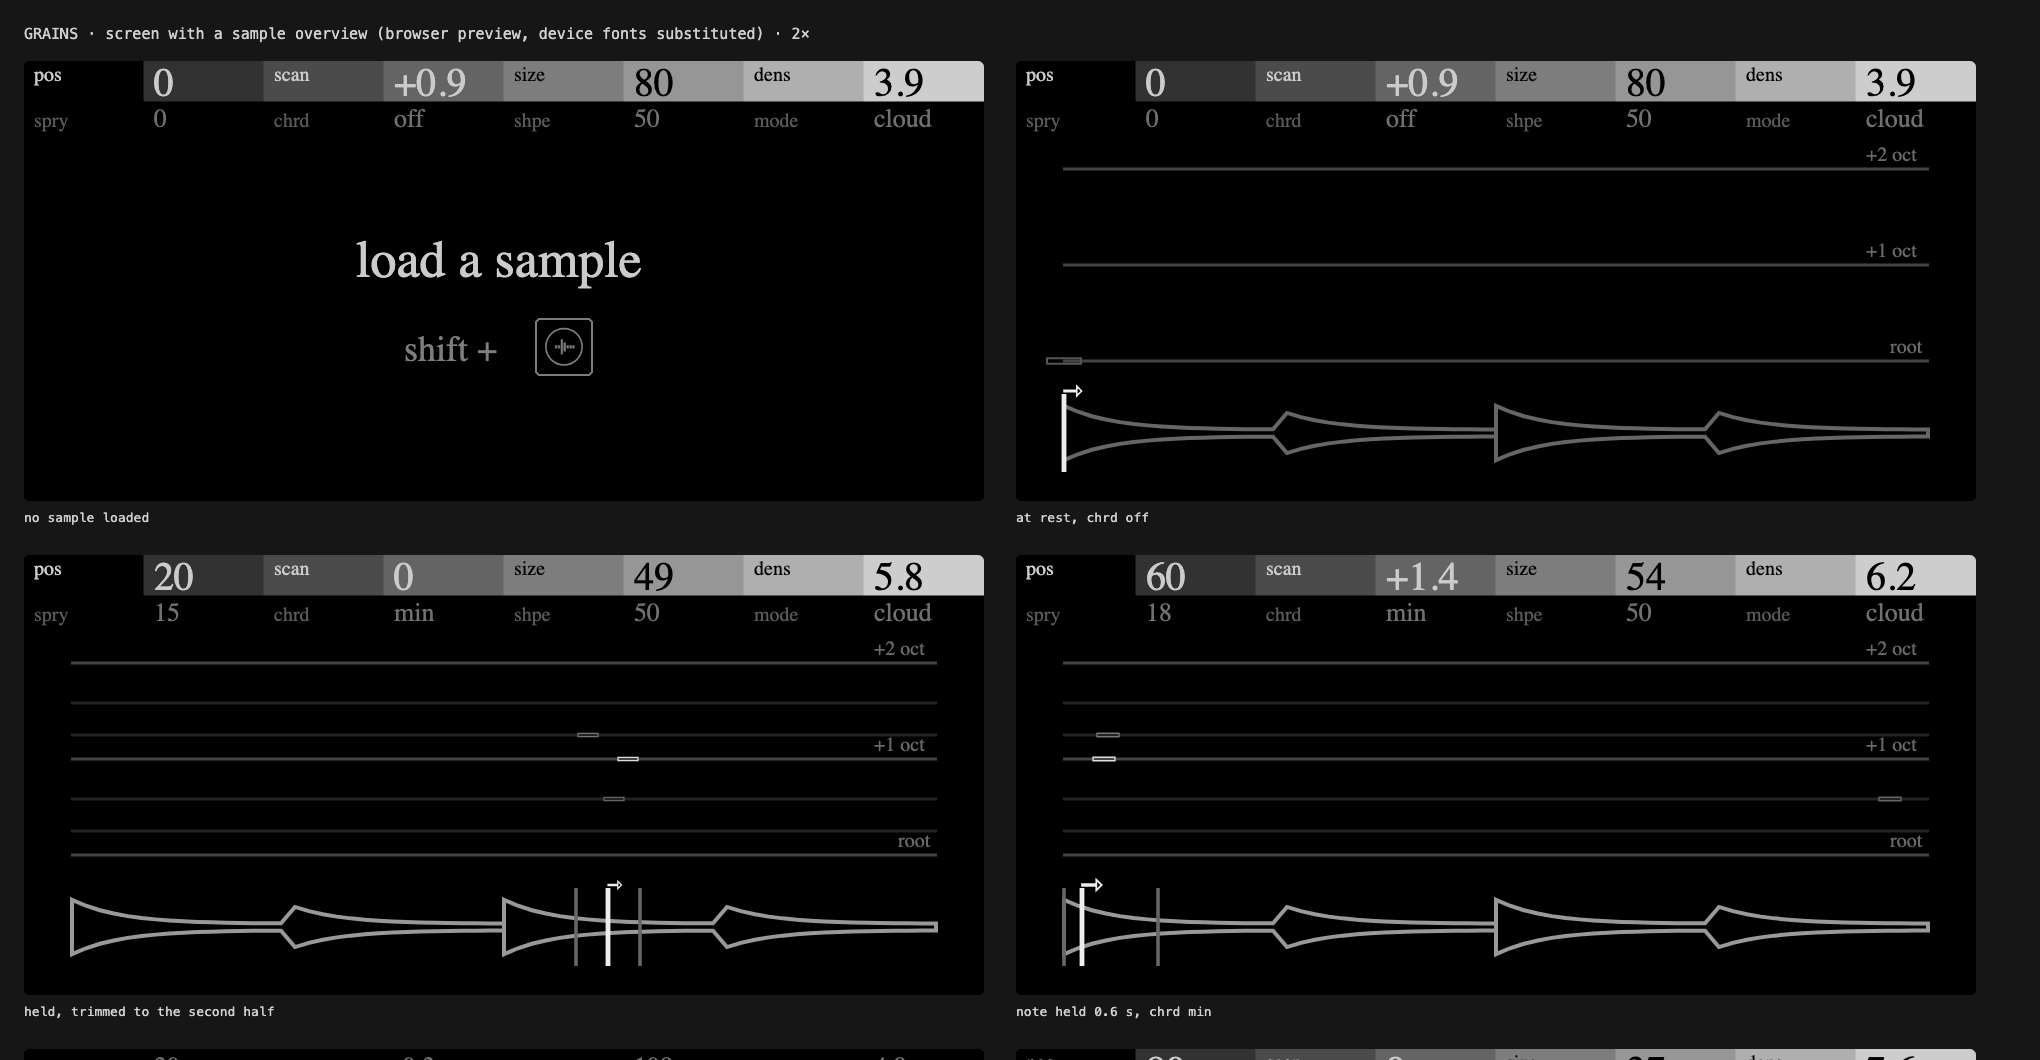
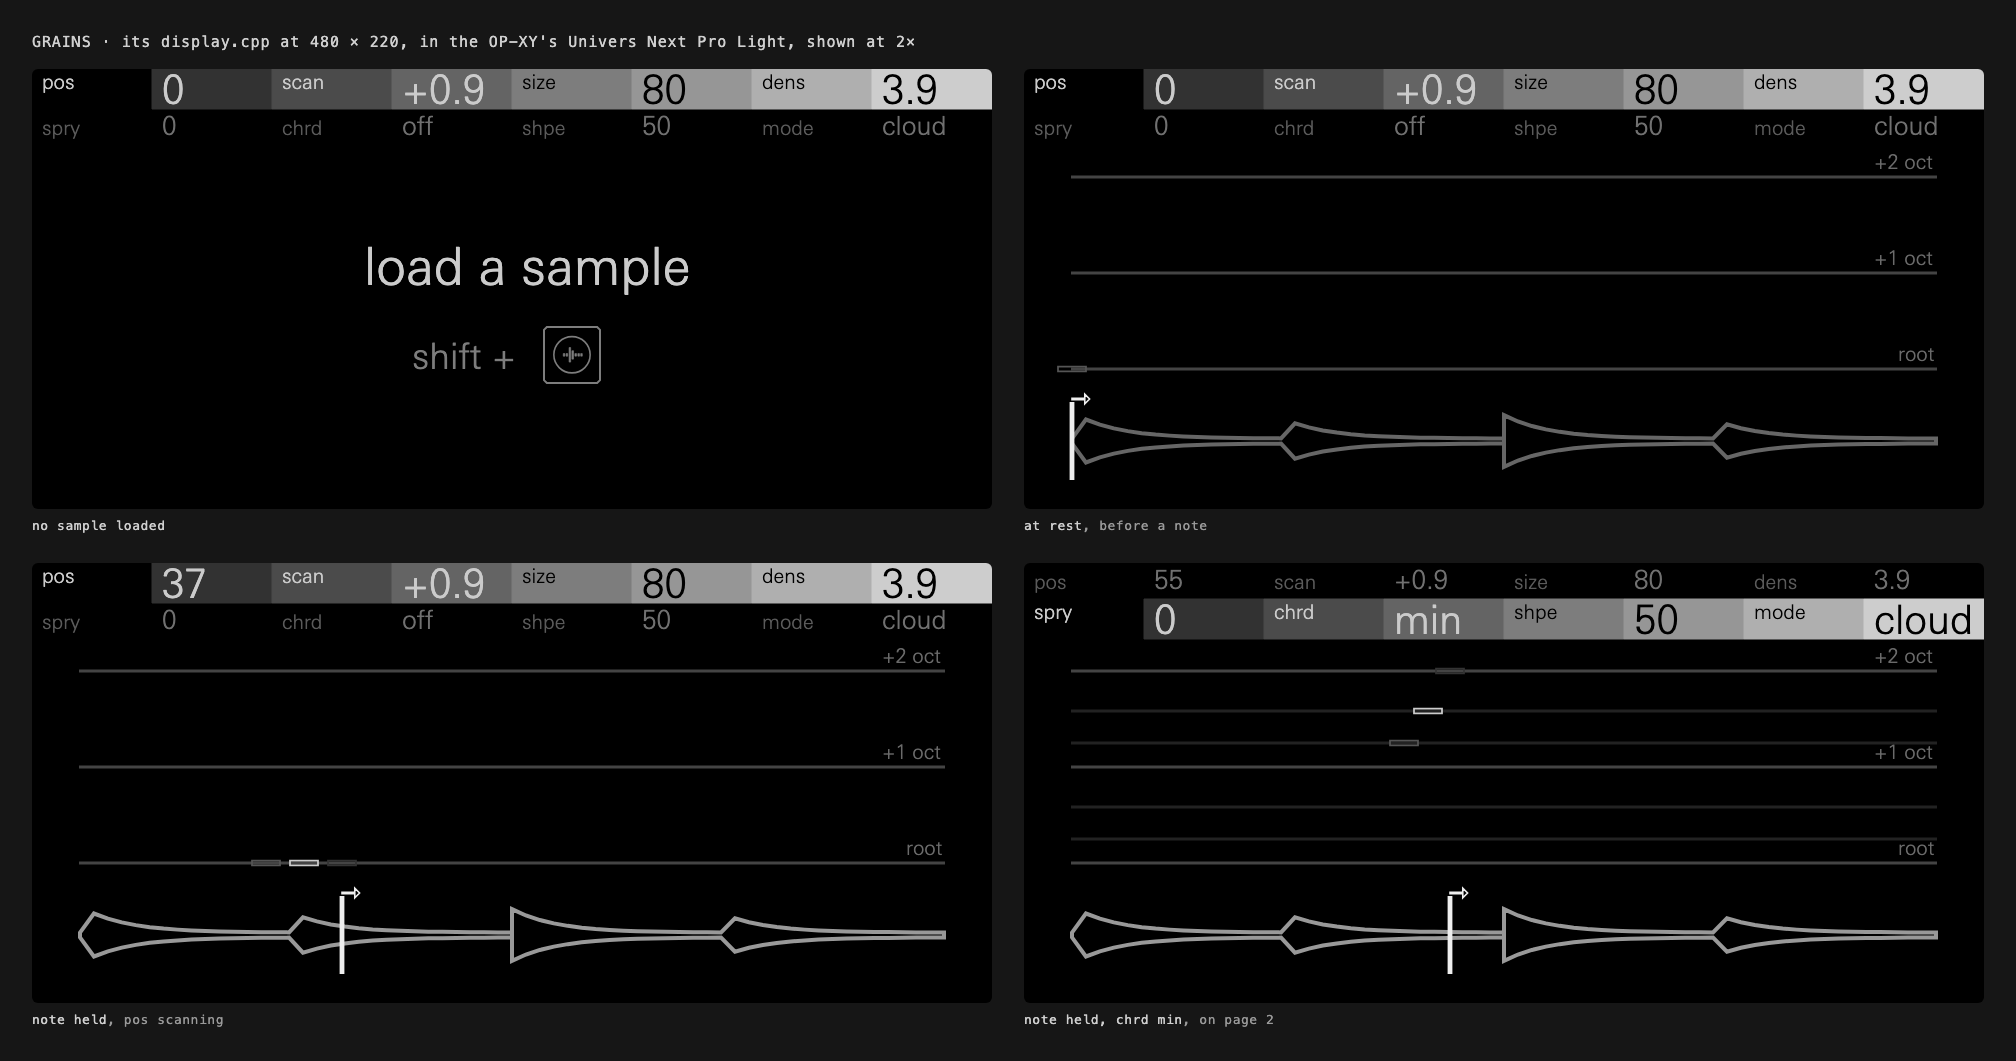
README: the screen rendered in the OP-XY's Univers Next Pro Light

diff --git a/README.md b/README.md
@@ -5,7 +5,7 @@ keyboard: grains read around a position that can scan through it, stack into
 chords and spread across the stereo field, and the screen shows each grain
 where it reads and at what pitch.
 
-![Grains' screen: no sample loaded, at rest, and while a note plays](docs/screen/preview.png)
+![Grains' screen: no sample loaded, at rest, while a note plays, and with a minor chord](docs/screen/preview.png)
 
 **Status: experimental.** Grains plays on an OP-XY running OS 1.2.1, but it
 needs SDK features that aren't in Open-XY yet (below), so it isn't in the
@@ -75,8 +75,10 @@ describes. Command-line builds carry no presets; the OP-XY lists Grains once
 - `tests/sound.cpp`: the engine's sound tests, which `sdk.py test` runs.
 
 Sample engines have no browser preview of their own. `docs/screen/preview.png`
-was rendered by running `display.cpp` through a throwaway synth with the same
-screen in the SDK's preview. Agent instructions are in [AGENTS.md](AGENTS.md).
+was rendered by running `display.cpp` through a stand-in synth with the same
+screen in the SDK's preview, at the OP-XY's 480 × 220 and in its screen font,
+Univers Next Pro Light
+([mmockett/OP-XY's renderer](https://github.com/mmockett/OP-XY/tree/main/tools/render)). Agent instructions are in [AGENTS.md](AGENTS.md).
 
 ## Licence
 
